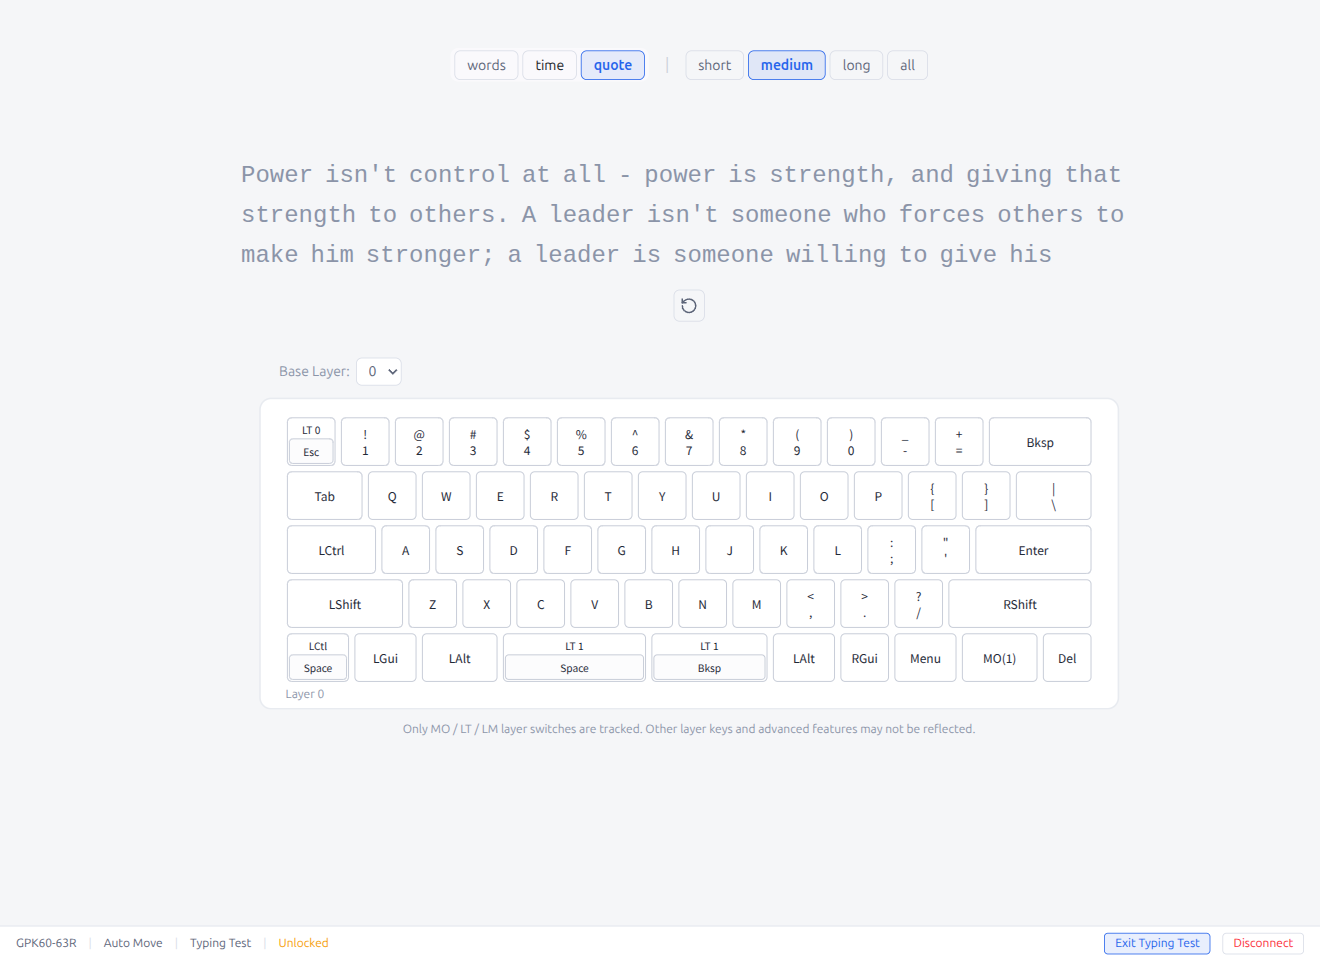
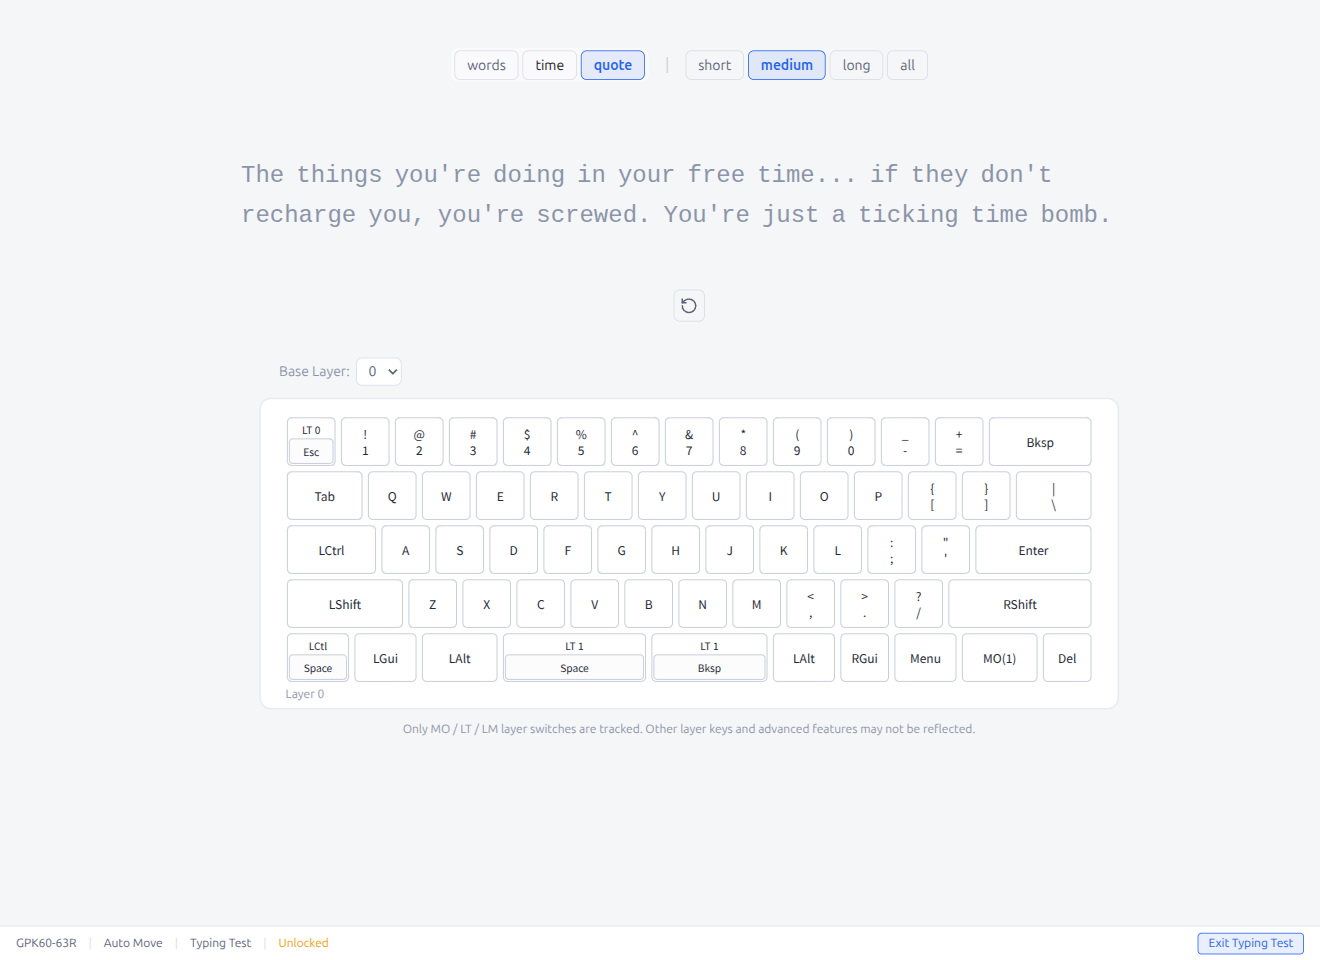
docs(guide): document typing test disconnect button removal and view mode memory
- Note in §4.3 that the Disconnect button is hidden during typing test and
  how to return to the editor before disconnecting
- Add a View Mode Memory and Auto-Restore subsection explaining per-keyboard
  persistence and Pipette Hub sync behaviour
- Update §8 Status Bar to mark Disconnect as hidden while typing test is active
- Retake typing test screenshots so they no longer show the Disconnect button
- Make the doc-capture script idempotent against per-keyboard auto-restore by
  skipping the entry click when typing test is already active

Changed region(s): [[0.1864, 0.1562, 0.8386, 0.2812], [0.8386, 0.9688, 0.9939, 1.0], [0.1864, 0.1562, 0.2485, 0.1875]]

diff --git a/e2e/helpers/doc-capture-typing-test.ts b/e2e/helpers/doc-capture-typing-test.ts
@@ -90,15 +90,19 @@ async function main(): Promise<void> {
 
     console.log('\n--- Typing Test Screenshots ---')
 
-    // Enter typing test mode via status bar button
-    const typingTestBtn = page.locator('[data-testid="typing-test-button"]')
-    await typingTestBtn.waitFor({ state: 'visible', timeout: 10_000 })
-    await typingTestBtn.click()
-    await page.waitForTimeout(1000)
-    await dismissNotificationModal(page)
+    // Per-keyboard view mode auto-restore may have entered typing test already.
+    // Only click the button when we are still in the editor.
+    const typingTestView = page.locator('[data-testid="typing-test-view"]')
+    const alreadyInTypingTest = await typingTestView.isVisible().catch(() => false)
+    if (!alreadyInTypingTest) {
+      const typingTestBtn = page.locator('[data-testid="typing-test-button"]')
+      await typingTestBtn.waitFor({ state: 'visible', timeout: 10_000 })
+      await typingTestBtn.click()
+      await page.waitForTimeout(1000)
+      await dismissNotificationModal(page)
+    }
 
     // 1. Words mode — waiting state (explicitly select to avoid persisted config)
-    const typingTestView = page.locator('[data-testid="typing-test-view"]')
     await typingTestView.waitFor({ state: 'visible', timeout: 10_000 })
     await page.locator('[data-testid="mode-words"]').click()
     await page.waitForTimeout(500)

diff --git a/docs/OPERATION-GUIDE.md b/docs/OPERATION-GUIDE.md
@@ -544,6 +544,7 @@ Correctly typed words turn green. Incorrect characters are highlighted in red wi
 
 - Press the restart button (↺) to restart the test at any time
 - Press Escape to exit typing test mode
+- The status bar's Disconnect button is hidden while Typing Test is active. To disconnect, first return to the editor with Escape or the Typing Test button
 - The keyboard layout below the test area shows key presses in real time via the Vial matrix tester protocol
 
 #### Typing View (View-Only Mode)
@@ -573,6 +574,16 @@ Click anywhere on the keyboard area to toggle the controls panel (bottom-right p
 Press Escape or click the keyboard area again to close the panel. A hint text appears at the bottom when hovering over the window. The window size and always-on-top preference are saved per keyboard.
 
 > **Note**: Auto-lock is suspended while in Typing View mode. If the keyboard is disconnected while in view-only mode, the window automatically restores to its normal size.
+
+#### View Mode Memory and Auto-Restore
+
+The last view mode (Editor / Typing Test / Typing View) is remembered per keyboard and automatically restored the next time you connect that keyboard:
+
+- **Editor**: The editor view is shown as usual
+- **Typing Test**: Typing Test mode is re-entered automatically. If the keyboard is locked, the Unlock dialog appears first and the test starts after unlocking
+- **Typing View**: The compact view-only window is re-entered automatically. If the keyboard is locked, the Unlock dialog appears first
+
+View mode is stored per keyboard alongside preferences like keyboard layout, zoom scale, and window size. When Pipette Hub sync is enabled, view mode is synced to other devices as well (see §7).
 
 ---
 
@@ -870,4 +881,4 @@ The status bar at the bottom of the screen shows connection information and acti
 - **Locked / Unlocked**: Keyboard lock status (prevents accidental changes to dangerous keycodes)
 - **Sync status**: Cloud sync status (shown only when sync is configured)
 - **Hub connection**: Pipette Hub connection status (shown only when Hub is configured)
-- **Disconnect button**: Disconnects from the keyboard and returns to the device selection screen
+- **Disconnect button**: Disconnects from the keyboard and returns to the device selection screen (hidden while Typing Test is active)
